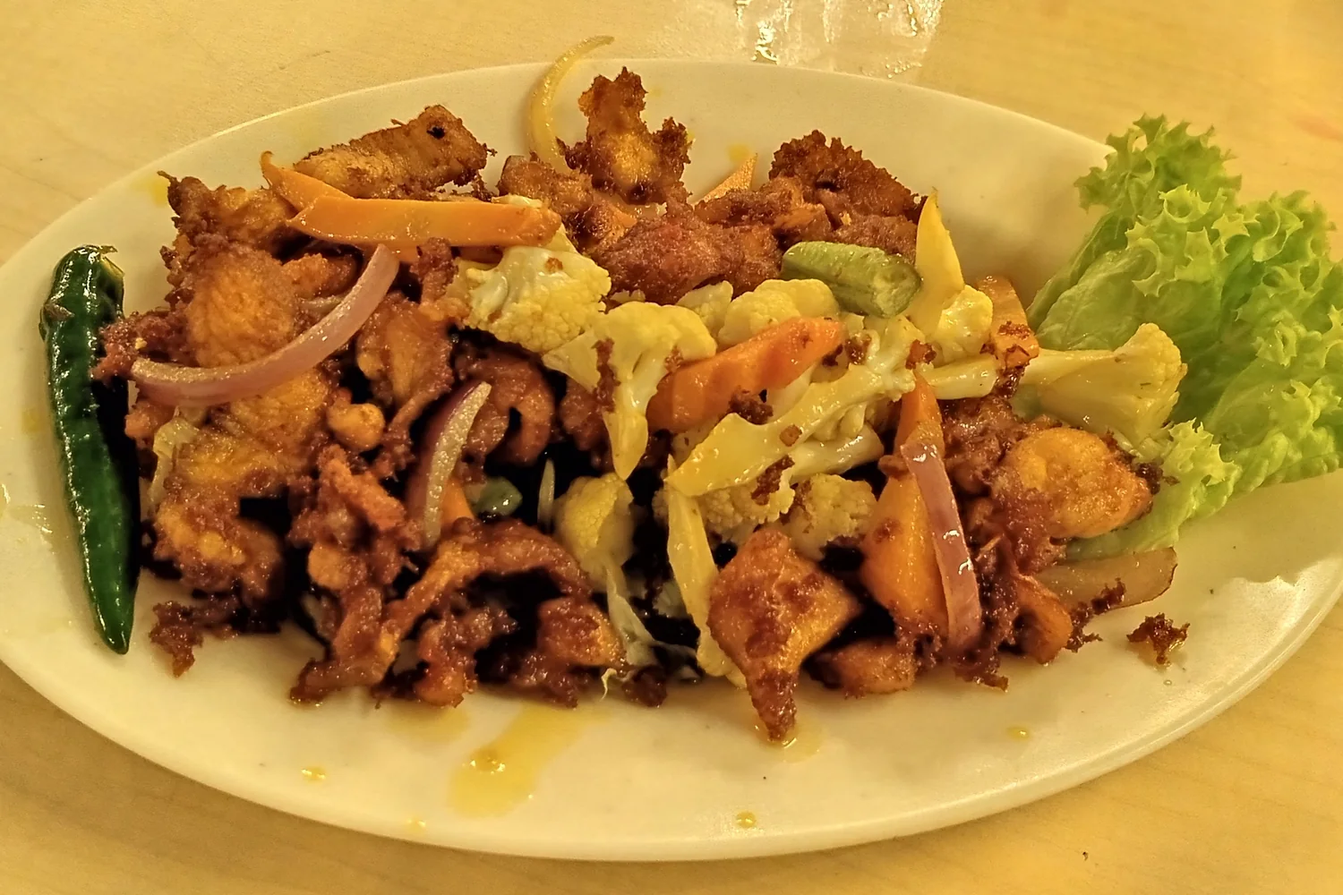
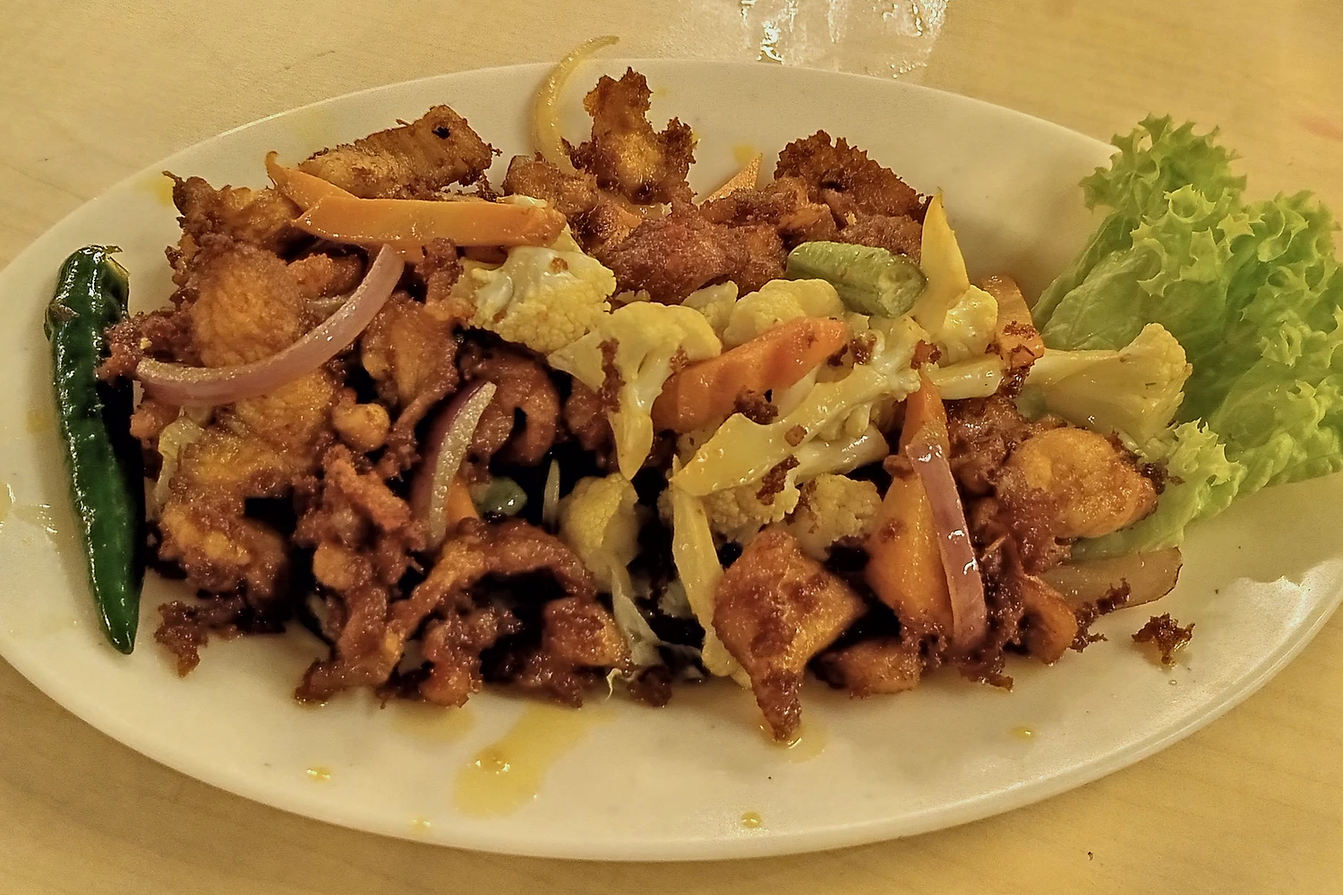
fix: align published recipes with hero evidence

diff --git a/data/localization/m9-public-recipes-batch-b.ts b/data/localization/m9-public-recipes-batch-b.ts
@@ -44,13 +44,13 @@ export const m9PublicRecipeTranslationsBatchB: Readonly<
   "malaysian-turmeric-chicken": en({
     name: "Home-Style Turmeric Chicken",
     description:
-      "A home-style chicken stir-fry with turmeric, ginger, and garlic, designed around a thin spice coating and complete cooking.",
+      "A lower-oil home stir-fry inspired by ayam goreng kunyit, with turmeric chicken, cauliflower, carrot, onion, and fresh chili.",
     steps: [
       {
         instruction:
-          "Cut the chicken thighs into evenly sized pieces and pat them dry. Toss with the turmeric and salt, then mince the ginger and garlic and slice the onion.",
+          "Cut the chicken thighs into even thin pieces and pat them dry. Toss with turmeric and salt. Cut the cauliflower into small florets, thinly slice the carrot, and prepare the ginger, garlic, onion, and fresh chili.",
         why:
-          "A dry surface and thin spice coating promote browning. Thick clumps of turmeric can scorch and taste bitter.",
+          "Thin, even chicken pieces finish while the vegetables stay crisp-tender. A light turmeric coating is less likely to scorch than thick clumps.",
       },
       {
         instruction:
@@ -60,18 +60,18 @@ export const m9PublicRecipeTranslationsBatchB: Readonly<
       },
       {
         instruction:
-          "When most of the chicken has changed color, add the onion and cook until its edges turn translucent. Add the ginger and garlic and toss briefly.",
+          "When most of the chicken has changed color, add the cauliflower, carrot, and onion. Stir-fry until the cauliflower has pale brown spots and the carrot still has bite.",
         why:
-          "The onion needs more time than the ginger and garlic. Adding the aromatics later keeps them from burning before the chicken is done.",
+          "Adding the sturdier vegetables first lets them finish with the chicken. If the crowded pan begins to steam, spread the ingredients out and raise the heat instead of covering it.",
       },
       {
         instruction:
-          "Continue stir-frying over medium heat until the center of the thickest chicken piece reaches 74°C / 165°F and the turmeric smells fragrant without any burnt odor. Remove from the heat immediately.",
+          "Add the ginger, garlic, and fresh chili and toss briefly. Reduce to medium and continue until the thickest chicken piece reaches 74°C / 165°F, then remove from the heat.",
         why:
-          "A probe temperature is more reliable than meat color. Reduce the heat if the spices darken too quickly.",
+          "Late aromatics avoid scorching. A probe temperature is more reliable than meat color, while the vegetables should remain cooked but still firm.",
       },
     ],
-    principles: ["Use a thin, even spice coating", "Brown the chicken before adding aromatics", "Check the thickest piece for doneness"],
+    principles: ["Use a thin, even spice coating", "Brown the chicken before the vegetables", "Check the thickest piece for doneness"],
   }),
   "singapore-chicken-rice-home": en({
     name: "One-Pot Home-Style Chicken Rice",
@@ -327,34 +327,34 @@ export const m9PublicRecipeTranslationsBatchB: Readonly<
   "mexican-black-bean-tacos": en({
     name: "Home-Style Black Bean Tacos",
     description:
-      "A modern home-style combination of black beans, tomatoes, and crisp vegetables in corn tortillas, without claiming a single traditional regional recipe.",
+      "A modern home-style combination of black beans, tomatoes, mushrooms, cabbage, and avocado in corn tortillas, without claiming a single traditional regional recipe.",
     steps: [
       {
         instruction:
-          "Drain the cooked black beans thoroughly. Dice the tomatoes and onion, finely shred the cabbage, chop the cilantro, and cut the lime into wedges.",
+          "Drain the cooked black beans thoroughly. Slice the mushrooms, dice the tomatoes and onion, finely shred the cabbage, slice the avocado, and cut the lime into wedges.",
         why:
-          "Clearly cooked beans keep the recipe within its stated time. Thorough draining prevents a wet filling from softening the tortillas too quickly.",
+          "Clearly cooked beans keep the recipe within its stated time. Separate prep lets the high-moisture mushrooms cook first and the cabbage cook last.",
       },
       {
         instruction:
-          "Add the beans, tomatoes, onion, and cumin to a pot. Cook over medium-low heat until the tomatoes collapse and no liquid pools at the bottom.",
+          "Heat the oil over medium and spread the mushrooms in the pan. Cook until their moisture has largely evaporated and the edges turn pale brown, then add the onion and cook until translucent.",
         why:
-          "A moist filling that does not run keeps the tortillas intact. Add only a small splash of hot water if the mixture dries before the tomatoes soften.",
+          "Removing mushroom moisture first concentrates their flavor and prevents a watery bean filling.",
       },
       {
         instruction:
-          "Lightly crush about one quarter of the beans with a spatula, add the salt, and stir until the filling is cohesive enough to mound.",
+          "Add the tomatoes, beans, and cumin and cook over medium-low until the tomatoes soften. Lightly crush about one quarter of the beans, then add the cabbage and salt and cook just until the shreds soften.",
         why:
-          "Crushing a small portion thickens the filling naturally while preserving most of the beans' texture.",
+          "Crushing a small portion binds the filling naturally. Adding cabbage at the end preserves its color and light crunch.",
       },
       {
         instruction:
-          "Warm the corn tortillas one at a time until flexible and lightly fragrant. Fill immediately with the beans, cabbage, and cilantro, then squeeze over lime just before eating.",
+          "Warm the corn tortillas one at a time until flexible and lightly fragrant. Fill immediately with the warm bean mixture, top with avocado, and squeeze over lime just before eating.",
         why:
-          "Warm tortillas bend without cracking. Adding the crisp vegetables and acid at the end preserves their texture and bright flavor.",
+          "Warm tortillas bend without cracking. Adding avocado and acid at serving time preserves their creamy texture and bright flavor.",
       },
     ],
-    principles: ["Start with clearly cooked black beans", "Reduce the filling until it does not run", "Assemble the warm and crisp components at serving time"],
+    principles: ["Cook off mushroom moisture first", "Start with clearly cooked black beans", "Add avocado and lime at serving time"],
   }),
   "huevos-rancheros-home": en({
     name: "Home-Style Huevos Rancheros",

diff --git a/data/recipes-china.ts b/data/recipes-china.ts
@@ -6,7 +6,7 @@ const pot = ["knife", "cutting-board", "saucepan"];
 const r = buildRecipe;
 
 export const chinaExpansionRecipes: Recipe[] = [
-  r({ slug:"cantonese-mushroom-steamed-chicken", name:"香菇蒸鸡", description:"粤式家庭蒸鸡，以姜葱和菌菇提鲜。", taxonomy:{countryId:"china",regionId:"guangdong",cuisineId:"cantonese",techniqueIds:["steam"],dishTypeId:"main-dish"}, servings:2, ingredients:[["chicken-thigh",320],["mushroom",140],["ginger",12],["scallion",15],["soy-sauce",10],["salt",0.8]], prep:15,cook:18,oil:0,salt:0.8,tools:[...pot,"steamer","heatproof-plate"],steps:[["鸡腿切块后与姜、生抽和盐拌匀，铺上蘑菇。","切块统一可让鸡肉同步熟透，短时腌制使表面调味均匀。"],["水沸上汽后放入，中火蒸至鸡肉中心熟透。","稳定蒸汽能持续传热，又避免肉块直接接触沸水。","medium"],["离火撒葱花，静置两分钟再食用。","短暂静置让内部温度均匀，葱花后放可保留清香。"]],principles:["蒸汽温和传热","统一尺寸控制熟度"],difficulty:"medium" }),
+  r({ slug:"cantonese-mushroom-steamed-chicken", name:"香菇蒸鸡", description:"粤式家庭蒸鸡，以姜葱和鲜香菇提鲜。", taxonomy:{countryId:"china",regionId:"guangdong",cuisineId:"cantonese",techniqueIds:["steam"],dishTypeId:"main-dish"}, servings:2, ingredients:[["chicken-thigh",320],["shiitake-mushroom",140],["ginger",12],["scallion",15],["soy-sauce",10],["salt",0.8]], prep:15,cook:18,oil:0,salt:0.8,tools:[...pot,"steamer","heatproof-plate"],steps:[["鸡腿切块后与姜、生抽和盐拌匀，铺上鲜香菇。","切块统一可让鸡肉同步熟透，短时腌制使表面调味均匀。"],["水沸上汽后放入，中火蒸至鸡肉中心熟透。","稳定蒸汽能持续传热，又避免肉块直接接触沸水。","medium"],["离火撒葱花，静置两分钟再食用。","短暂静置让内部温度均匀，葱花后放可保留清香。"]],principles:["蒸汽温和传热","统一尺寸控制熟度"],difficulty:"medium" }),
   r({ slug:"cantonese-ginger-scallion-fish", name:"姜葱蒸鱼", description:"以整洁的姜葱香气突出白肉鱼的细嫩。", taxonomy:{countryId:"china",regionId:"guangdong",cuisineId:"cantonese",techniqueIds:["steam"],dishTypeId:"main-dish"}, servings:2,ingredients:[["white-fish",320],["ginger",15],["scallion",20],["soy-sauce",8],["cooking-oil",4],["salt",0.8]],prep:10,cook:10,oil:4,salt:0.8,tools:["knife","cutting-board","steamer","heatproof-plate"],steps:[["鱼柳擦干，均匀撒盐并铺姜丝。","去除表面水分可减少腥水稀释调味。"],["水沸后上锅蒸至鱼肉刚能分片。","从上汽后计时更稳定，刚熟即停能减少蛋白质收缩。","medium"],["撒葱丝，淋生抽和温热的油。","热油帮助释放葱香，最后调味避免酱油过度浓缩。"]],principles:["控制终点避免鱼肉过熟","热油萃取葱香"] }),
   r({ slug:"cantonese-blanched-bok-choy",name:"白灼青菜",description:"快速焯烫小白菜，保留清脆和鲜绿。",taxonomy:{countryId:"china",regionId:"guangdong",cuisineId:"cantonese",techniqueIds:["blanch"],dishTypeId:"side-dish",dietaryTagIds:["vegan"],browseTagIds:["vegetable-rich"]},servings:2,ingredients:[["bok-choy",350],["soy-sauce",8],["cooking-oil",3],["salt",0.5]],prep:6,cook:4,oil:3,salt:0.5,tools:[...pot,"colander"],steps:[["青菜洗净并将粗梗与叶片分开。","粗梗需要更长加热，分开可控制成熟顺序。"],["沸水中先下菜梗，再下叶片快速焯熟。","高温短时能减少叶绿素长时间受热和组织软化。","high"],["充分沥水后淋生抽和油。","先沥干可避免水分稀释调味。"]],principles:["按部位调整加热时间","快速焯烫保留质地"] }),
   r({ slug:"home-mapo-tofu",name:"家常麻婆豆腐",description:"保留豆瓣酱、豆腐与肉末的核心结构，控制为家庭辣度。",heroImageId:"home-mapo-tofu-hero",publication:{status:"published"},taxonomy:{countryId:"china",regionId:"sichuan",cuisineId:"sichuan",techniqueIds:["braise"],dishTypeId:"main-dish"},servings:3,ingredients:[["tofu",420],["pork-tenderloin",120],["chili-bean-paste",18],["garlic",10],["scallion",15],["cooking-oil",8],["salt",0.6]],prep:12,cook:15,oil:8,salt:0.6,tools:pan,steps:[["豆腐切成约 2 厘米块，放入淡盐热水浸泡 5 分钟；同时把猪肉切成细末，蒜和葱分别切好。","温热盐水让豆腐表面略微收紧，后续轻推时不易碎；浸泡时间已计入准备时间。"],["豆腐沥干备用；锅烧热后加油，放入肉末摊开，中火炒至水汽明显减少、肉粒分散且不再呈粉色。","先把肉末自身水分炒掉，豆瓣酱下锅后才不会被水汽稀释，也能确认肉末已经熟透。","medium"],["转小火加入豆瓣酱和蒜，持续翻炒至酱色变红、能闻到香气；如果锅底发干，立即加少量水。","豆瓣酱和蒜容易焦苦，降低火力并观察锅底状态，比只按时间更可靠。","low"],["加入约 150 毫升水和豆腐，轻轻晃锅让豆腐铺开；保持小幅冒泡焖 5 至 6 分钟，中途只用锅铲轻推。","温和焖煮让味道进入豆腐，同时避免剧烈翻动破坏豆腐形状。","low"],["汤汁从水样收至能薄薄挂在豆腐表面时尝味，必要时用剩余盐调整，撒葱后关火。","豆瓣酱本身有咸度，最后按实际收汁程度补盐，能降低过咸风险。","low"]],principles:["先炒酱释放脂溶性香气","轻推保护豆腐结构"],difficulty:"medium" }),

diff --git a/data/recipes-global.ts b/data/recipes-global.ts
@@ -1,7 +1,7 @@
 import type{Recipe}from"@/types/recipe";import{buildRecipe as r}from"./recipe-factories";const pan=["knife","cutting-board","frying-pan"],pot=["knife","cutting-board","saucepan"];
 export const globalExpansionRecipes:Recipe[]=[
 r({slug:"mexican-chicken-fajitas",name:"墨西哥风味鸡肉彩椒",description:"鸡肉和彩椒以孜然、青柠高温快炒。",taxonomy:{countryId:"mexico",cuisineId:"mexican",techniqueIds:["sear","stir-fry"],dishTypeId:"main-dish",browseTagIds:["vegetable-rich"]},servings:3,ingredients:[["chicken-breast",320],["bell-pepper",300],["onion",160],["lime",1,"piece"],["cumin",3],["paprika",3],["cooking-oil",7],["salt",1.3]],prep:15,cook:10,oil:7,salt:1.3,tools:pan,steps:[["鸡肉切条擦干，蔬菜切同宽条。","统一尺寸利于同步熟化。"],["鸡肉高温煎至上色后盛出，炒彩椒洋葱。","分批保持锅温。","high"],["鸡肉回锅加香料，离火挤青柠。","香料短时受热，酸味后加。"]],principles:["分批保持锅温","酸味后加"]}),
-r({slug:"mexican-black-bean-tacos",name:"墨西哥黑豆玉米饼家庭版",description:"黑豆、番茄与脆蔬菜组成的家庭玉米饼。",taxonomy:{countryId:"mexico",cuisineId:"mexican",techniqueIds:["simmer"],dishTypeId:"staple",dietaryTagIds:["vegan"],browseTagIds:["vegetable-rich"]},servings:3,ingredients:[["cooked-black-bean",180],["corn-tortilla",6,"piece"],["tomato",240],["cabbage",180],["onion",100],["cilantro",20],["lime",1,"piece"],["cumin",2],["salt",1.2]],prep:15,cook:20,oil:0,salt:1.2,tools:pot,steps:[["熟黑豆沥干，番茄和洋葱切小丁。","熟豆无需额外预煮，沥干可避免馅料水分过多。"],["加入番茄、洋葱和孜然小火收浓。","收浓避免馅料浸湿饼皮。","low"],["玉米饼加热后装豆馅、圆白菜、香菜和青柠。","最后组合保留脆度。"]],principles:["熟豆直接入锅","控制馅料水分"]}),
+r({slug:"mexican-black-bean-tacos",name:"墨西哥黑豆玉米饼家庭版",description:"黑豆、番茄、蘑菇、圆白菜和牛油果组成的现代家庭玉米饼。",taxonomy:{countryId:"mexico",cuisineId:"mexican",techniqueIds:["stir-fry"],dishTypeId:"staple",dietaryTagIds:["vegan"],browseTagIds:["vegetable-rich"]},servings:3,ingredients:[["cooked-black-bean",180],["corn-tortilla",6,"piece"],["tomato",180],["mushroom",160],["cabbage",160],["avocado",150],["onion",80],["lime",1,"piece"],["cumin",2],["cooking-oil",5],["salt",1.2]],prep:15,cook:18,oil:5,salt:1.2,tools:pan,steps:[["熟黑豆沥干，番茄、蘑菇和洋葱切好。","熟豆无需额外预煮，沥干可避免馅料水分过多。"],["炒香蘑菇和洋葱，加入番茄、黑豆和孜然收浓。","先排出菌菇水分可避免馅料浸湿饼皮。","medium"],["加入圆白菜炒至刚变软，玉米饼加热后装馅并配牛油果和青柠。","圆白菜和牛油果最后组合可保留颜色与质地。","medium"]],principles:["熟豆直接入锅","菌菇先排水","食用前完成组合"]}),
 r({slug:"mexican-tomato-bean-rice",name:"墨西哥风味番茄豆饭",description:"黑豆、番茄与米同锅熟成。",taxonomy:{countryId:"mexico",cuisineId:"mexican",techniqueIds:["rice-cook"],dishTypeId:"staple",dietaryTagIds:["vegan"],browseTagIds:["one-pot"]},servings:4,ingredients:[["rice",220],["cooked-black-bean",120],["tomato",300],["corn",160],["onion",120],["cumin",2],["paprika",2],["cooking-oil",5],["salt",1.6]],prep:15,cook:38,oil:5,salt:1.6,tools:pot,steps:[["熟黑豆沥干，大米淘洗。","使用熟豆可与生米在同一计时流程内完成。"],["炒香洋葱番茄和香料，加入米、豆和水。","先浓缩底味并控制总液量。"],["加盖小火煮熟后焖八分钟。","静置让米粒水分均匀。","low"]],principles:["熟豆与生米协调熟化","静置完成吸水"]}),
 r({slug:"huevos-rancheros-home",name:"牧场鸡蛋家庭版",description:"番茄黑豆、煎蛋与玉米饼组成的墨西哥风味早餐。",taxonomy:{countryId:"mexico",cuisineId:"mexican",techniqueIds:["pan-fry","simmer"],dishTypeId:"staple",mealOccasionIds:["breakfast"]},servings:2,ingredients:[["egg",2,"piece"],["corn-tortilla",4,"piece"],["cooked-black-bean",100],["tomato",260],["onion",80],["fresh-chili",8],["cooking-oil",5],["salt",1]],prep:12,cook:18,oil:5,salt:1,tools:pan,steps:[["熟黑豆沥干，番茄洋葱切碎。","熟豆直接入锅保证口感。"],["番茄、洋葱、辣椒和黑豆小火煮成浓汁。","减少水分避免玉米饼湿软。"],["煎蛋并加热玉米饼，食用前组合。","最后组合保留各部分质地。"]],principles:["控制酱汁水分","分组件熟化"],difficulty:"medium"}),
 r({slug:"american-sheet-pan-chicken",name:"美式烤盘鸡肉蔬菜",description:"鸡肉与根茎蔬菜单层烘烤的家庭晚餐。",taxonomy:{countryId:"united-states",cuisineId:"american",techniqueIds:["roast"],dishTypeId:"main-dish",browseTagIds:["vegetable-rich"]},servings:4,ingredients:[["chicken-thigh",480],["potato",400],["broccoli",300],["carrot",180],["garlic",10],["paprika",3],["cooking-oil",10],["salt",2]],prep:15,cook:32,oil:10,salt:2,tools:["knife","cutting-board","oven","baking-tray"],steps:[["烤箱预热，根茎切小、花菜切大。","按硬度调整尺寸可同步成熟。"],["食材拌油盐香料后单层铺开。","留空隙让水汽逸出。"],["中途翻面，鸡肉熟透后静置 3 分钟。","翻面均匀上色，静置保汁。"]],principles:["尺寸协调熟度","单层促进干热褐变"]}),

diff --git a/data/m9-recipes-batch-b.ts b/data/m9-recipes-batch-b.ts
@@ -29,14 +29,14 @@ export const m9BatchBOverrides: Readonly<Record<string, M9RecipeEditorialOverrid
     principles: ["茄子先煎定型", "先成酱再回锅", "轻柔翻动保持形状"],
   },
   "malaysian-turmeric-chicken": {
-    description: "姜黄、姜、蒜和鸡肉快炒的家庭版本，强调香料薄裹与完整熟化。",
+    description: "受 ayam goreng kunyit 启发，以姜黄鸡肉、花椰菜、胡萝卜、洋葱和鲜辣椒组成的家庭少油快炒。",
     steps: steps([
-      ["鸡腿切成大小接近的块并擦干，与姜黄和盐拌匀；姜、蒜切末，洋葱切片。", "干燥表面和薄层香料有利于上色；姜黄不宜厚厚结块，否则容易焦苦。"],
+      ["鸡腿切成大小接近的薄块并擦干，与姜黄和盐拌匀；花椰菜切小朵，胡萝卜切薄片，姜蒜切末，洋葱和鲜辣椒切片。", "鸡肉薄而均匀才能在蔬菜保持脆嫩时熟透；薄层姜黄比结块的香料更不易焦苦。"],
       ["锅充分预热后放油，鸡肉分散下锅，先保持接触至底面上色再翻炒。", "持续接触热锅能建立褐变；若鸡肉大量出水，应先让水汽收干而不是继续加油。", "high"],
-      ["鸡肉大部分变色后加入洋葱，炒至边缘透明，再加入姜蒜快速翻匀。", "洋葱需要比姜蒜更长时间；姜蒜后放可避免在鸡肉熟透前焦黑。", "medium"],
-      ["转中火继续翻炒至最厚肉块中心达到 74°C、姜黄香气清晰而无焦味，立即离火。", "探针温度比肉色更可靠；香料颜色变深过快时应降低火力。", "medium"],
+      ["鸡肉大部分变色后加入花椰菜、胡萝卜和洋葱，翻炒至花椰菜边缘出现浅色焦点、胡萝卜仍有脆感。", "耐热蔬菜先入锅能与鸡肉同步完成；食材拥挤出水时应提高火力并摊开，而不是久焖。", "high"],
+      ["加入姜蒜和鲜辣椒快速翻匀，转中火炒至最厚鸡肉中心达到 74°C，立即离火。", "香味料后放可避免焦黑；探针温度比肉色更可靠，蔬菜此时应熟而仍有咬感。", "medium"],
     ]),
-    principles: ["香料只做薄层附着", "先上色再加入香味料", "确认最厚肉块熟透"],
+    principles: ["香料只做薄层附着", "鸡肉先上色再炒蔬菜", "确认最厚肉块熟透"],
   },
   "singapore-chicken-rice-home": {
     description: "鸡腿与姜葱米饭同锅熟成的简化家庭版本，不替代传统分锅鸡饭做法。",
@@ -117,14 +117,14 @@ export const m9BatchBOverrides: Readonly<Record<string, M9RecipeEditorialOverrid
     principles: ["肉块尺寸一致", "单层上色后降低火力", "柠檬离火后加入"],
   },
   "mexican-black-bean-tacos": {
-    description: "黑豆、番茄和脆蔬菜组成的现代家庭玉米饼，不声称为单一传统地方配方。",
+    description: "黑豆、番茄、蘑菇、圆白菜和牛油果组成的现代家庭玉米饼，不声称为单一传统地方配方。",
     steps: steps([
-      ["熟黑豆彻底沥干，番茄和洋葱切小丁，圆白菜切细丝，香菜切碎，青柠切瓣。", "明确使用熟豆才能符合总时长；沥干能避免馅料水分过多浸软玉米饼。"],
-      ["锅中加入黑豆、番茄、洋葱和孜然，以中小火煮至番茄塌软、锅底不再积水。", "把馅料收至湿润但不流汁可保持饼皮完整；发干时只补少量热水。", "low"],
-      ["用锅铲轻压约四分之一黑豆，加入盐并翻匀，让馅料形成能堆叠的黏合度。", "压碎少量豆粒能自然增稠，同时保留大部分完整口感。", "low"],
-      ["玉米饼逐张加热至柔软并出现淡香，立即装入豆馅、圆白菜和香菜，食用前挤青柠。", "温热饼皮更柔韧不易裂；脆蔬菜和酸味最后加入可保留质地与明亮风味。", "medium"],
+      ["熟黑豆彻底沥干；蘑菇切片，番茄和洋葱切小丁，圆白菜切细丝，牛油果切片，青柠切瓣。", "明确使用熟豆才能符合总时长；提前分开切配可让高含水蘑菇先入锅、圆白菜最后入锅。"],
+      ["锅中放油，以中火把蘑菇摊开炒至水汽明显减少、边缘浅褐，再加入洋葱炒至透明。", "先排出菌菇水分能集中风味，也可避免后续豆馅变得过湿。", "medium"],
+      ["加入番茄、黑豆和孜然，中小火炒至番茄塌软；轻压约四分之一黑豆，再加入圆白菜和盐，炒至菜丝刚变软。", "压碎少量豆粒能自然黏合馅料；圆白菜后放可保留颜色和轻脆口感。", "low"],
+      ["玉米饼逐张加热至柔软并出现淡香，立即装入温热豆馅，铺上牛油果，食用前挤青柠。", "温热饼皮更柔韧不易裂；牛油果和酸味最后加入可保留柔滑质地与明亮风味。", "medium"],
     ]),
-    principles: ["使用明确已熟的黑豆", "馅料收至不流汁", "食用前完成冷热组合"],
+    principles: ["菌菇先排水", "使用明确已熟的黑豆", "食用前加入牛油果和青柠"],
   },
   "huevos-rancheros-home": {
     description: "番茄黑豆酱、煎蛋和玉米饼组成的家庭早餐版本。",

diff --git a/data/m9-recipe-images.ts b/data/m9-recipe-images.ts
@@ -23,18 +23,18 @@ export const m9RecipeImages: readonly RecipeImage[] = [
   {
     id: "cantonese-mushroom-steamed-chicken-hero",
     src: "/images/recipes/cantonese-mushroom-steamed-chicken/hero.webp",
-    alt: "白色深盘中的鸡肉、菌菇与棕色汤汁，为同类食材组合的视觉示意",
+    alt: "外卖碗中的冬菇蒸滑鸡配米饭，为香菇蒸鸡的上桌示意",
     role: "hero",
     delivery: "local",
     width: 1500,
     height: 1000,
     aspectRatio: "3:2",
     source: "open-license",
-    sourceUrl: "https://www.flickr.com/photos/avlxyz/2300203732/",
-    author: "avlxyz",
+    sourceUrl: commons("HK Kwun Tong Lunch Box dim sum mushroom chicken rice Nov 2018 01.jpg"),
+    author: "Manfilliomia",
     license: "cc-by-sa",
-    licenseUrl: "https://creativecommons.org/licenses/by-sa/2.0/",
-    attribution: "avlxyz / Flickr，裁切处理，CC BY-SA 2.0",
+    licenseUrl: "https://creativecommons.org/licenses/by-sa/4.0/",
+    attribution: "Manfilliomia / Wikimedia Commons，裁切与色彩处理，CC BY-SA 4.0",
   },
   {
     id: "hunan-chili-pork-hero",
@@ -215,7 +215,7 @@ export const m9RecipeImages: readonly RecipeImage[] = [
   {
     id: "malaysian-turmeric-chicken-hero",
     src: "/images/recipes/malaysian-turmeric-chicken/hero.webp",
-    alt: "白盘中的姜黄鸡肉和蔬菜，表面呈鲜明金黄色",
+    alt: "白盘中的马来西亚风味姜黄鸡，搭配花椰菜、胡萝卜、洋葱和鲜辣椒",
     role: "hero",
     delivery: "local",
     width: 1500,
@@ -226,7 +226,7 @@ export const m9RecipeImages: readonly RecipeImage[] = [
     author: "Wiki Farazi",
     license: "cc0",
     licenseUrl: "https://creativecommons.org/publicdomain/zero/1.0/",
-    attribution: "Wiki Farazi / Wikimedia Commons，CC0",
+    attribution: "Wiki Farazi / Wikimedia Commons，裁切与色彩处理，CC0",
   },
   {
     id: "singapore-chicken-rice-home-hero",
@@ -359,18 +359,18 @@ export const m9RecipeImages: readonly RecipeImage[] = [
   {
     id: "mexican-black-bean-tacos-hero",
     src: "/images/recipes/mexican-black-bean-tacos/hero.webp",
-    alt: "盘中的黑豆玉米饼，铺有生菜、紫甘蓝、豌豆、种子和酱料，为同类料理的视觉示意",
+    alt: "绿盘中的黑豆蔬菜玉米饼，搭配番茄、蘑菇、圆白菜和牛油果",
     role: "hero",
     delivery: "local",
     width: 1500,
     height: 1000,
     aspectRatio: "3:2",
     source: "open-license",
-    sourceUrl: commons("Black bean corn tacos at Down The Rabbit Hole 2018.jpg"),
-    author: "FakirNL",
-    license: "cc-by-sa",
-    licenseUrl: "https://creativecommons.org/licenses/by-sa/4.0/",
-    attribution: "FakirNL / Wikimedia Commons，裁切处理，CC BY-SA 4.0",
+    sourceUrl: commons("Vegetables and Black Bean Tacos (7212559656).jpg"),
+    author: "Jennifer",
+    license: "cc-by",
+    licenseUrl: "https://creativecommons.org/licenses/by/2.0/",
+    attribution: "Jennifer / Wikimedia Commons，尺寸与色彩处理，CC BY 2.0",
   },
   {
     id: "huevos-rancheros-home-hero",

diff --git a/data/localization/m9-public-recipes-batch-a.ts b/data/localization/m9-public-recipes-batch-a.ts
@@ -21,11 +21,11 @@ export const m9PublicRecipeTranslationsBatchA: Readonly<
     principles: ["Maintain steady steam", "Judge doneness at the thickest point", "Release the aromatics at the end"],
   }),
   "cantonese-mushroom-steamed-chicken": en({
-    name: "Steamed Chicken with Mushrooms",
-    description: "A Cantonese home-style plate of chicken, mushrooms, ginger, and scallion cooked over steady steam.",
+    name: "Steamed Chicken with Shiitake",
+    description: "A Cantonese home-style plate of chicken, fresh shiitake, ginger, and scallion cooked over steady steam.",
     steps: [
-      { instruction: "Cut the chicken thighs into similar pieces and slice the mushrooms thickly. Toss the chicken with ginger, soy sauce, and salt, then rest for 10 minutes.", why: "Even pieces cook together. The short rest seasons the surface and is already included in the preparation time." },
-      { instruction: "Arrange the chicken in one layer on a heatproof plate, placing the mushrooms between the pieces instead of building a tall pile.", why: "A single layer exposes the food evenly to steam. A thick pile leaves the pieces in the center heating too slowly." },
+      { instruction: "Cut the chicken thighs into similar pieces and slice the fresh shiitake thickly. Toss the chicken with ginger, soy sauce, and salt, then rest for 10 minutes.", why: "Even pieces cook together. The short rest seasons the surface and is already included in the preparation time." },
+      { instruction: "Arrange the chicken in one layer on a heatproof plate, placing the shiitake between the pieces instead of building a tall pile.", why: "A single layer exposes the food evenly to steam. A thick pile leaves the pieces in the center heating too slowly." },
       { instruction: "Set the plate over a fully steaming pot and cook over medium heat until the center of the thickest chicken piece reaches 74°C / 165°F.", why: "A probe temperature is more reliable than meat color or clear juices. Stable steam avoids temperature swings." },
       { instruction: "Turn off the heat and rest for 2 minutes. Add the scallion and turn the chicken gently through the juices on the plate.", why: "The short rest evens out the internal temperature. Adding scallion last preserves its fresh aroma." },
     ],

diff --git a/data/ingredients.ts b/data/ingredients.ts
@@ -94,6 +94,11 @@ const estimatedIngredients: Omit<Ingredient, "dataQuality" | "nutritionProvenanc
     defaultUnit: "g", estimatedPricePer100g: 1.8, tags: ["vegan"],
   },
   {
+    id: "shiitake-mushroom", name: "鲜香菇", aliases: ["香菇", "冬菇"], category: "vegetable",
+    nutritionPer100g: nutrition(34, 2.2, 0.5, 0.1, 6.8, 2.4, 2.5, 9),
+    defaultUnit: "g", estimatedPricePer100g: 2.4, tags: ["vegan"],
+  },
+  {
     id: "potato", name: "土豆", aliases: ["马铃薯"], category: "vegetable",
     nutritionPer100g: nutrition(77, 2, 0.1, 0, 17.5, 0.8, 2.1, 6),
     defaultUnit: "g", approximateUnitWeight: { piece: 180 }, estimatedPricePer100g: 0.5,
@@ -110,6 +115,17 @@ const estimatedIngredients: Omit<Ingredient, "dataQuality" | "nutritionProvenanc
     nutritionPer100g: nutrition(41, 0.9, 0.2, 0, 9.6, 4.7, 2.8, 69),
     defaultUnit: "g", approximateUnitWeight: { piece: 120 }, estimatedPricePer100g: 0.6,
     tags: ["vegan"],
+  },
+  {
+    id: "cauliflower", name: "白花椰菜", aliases: ["菜花"], category: "vegetable",
+    nutritionPer100g: nutrition(25, 1.9, 0.3, 0.1, 5, 1.9, 2, 30),
+    defaultUnit: "g", estimatedPricePer100g: 1.1, tags: ["vegan", "high-fiber"],
+  },
+  {
+    id: "avocado", name: "牛油果", aliases: ["鳄梨"], category: "vegetable",
+    nutritionPer100g: nutrition(160, 2, 14.7, 2.1, 8.5, 0.7, 6.7, 7),
+    defaultUnit: "g", approximateUnitWeight: { piece: 150 }, estimatedPricePer100g: 4,
+    tags: ["vegan", "fruit"],
   },
   {
     id: "cucumber", name: "黄瓜", aliases: ["青瓜"], category: "vegetable",

diff --git a/data/localization/ingredients.ts b/data/localization/ingredients.ts
@@ -2,7 +2,8 @@ import type { SupportedLocale } from "@/types/localization";
 
 const englishIngredientLabels: Readonly<Record<string, string>> = Object.freeze({
   apple: "apple", "bell-pepper": "bell pepper", "black-tea-leaf": "black tea leaves",
-  "brewed-espresso": "brewed espresso", butter: "butter", cardamom: "cardamom", carrot: "carrot",
+  avocado: "avocado", "brewed-espresso": "brewed espresso", butter: "butter", cardamom: "cardamom", carrot: "carrot",
+  cauliflower: "cauliflower",
   cilantro: "cilantro", cinnamon: "cinnamon", clove: "clove", "cocoa-powder": "cocoa powder",
   "coconut-milk": "coconut milk", "cooked-chickpea": "cooked chickpeas", cucumber: "cucumber",
   cumin: "cumin", "dried-hibiscus": "dried hibiscus", "drinking-water": "water", egg: "eggs",
@@ -15,6 +16,7 @@ const englishIngredientLabels: Readonly<Record<string, string>> = Object.freeze(
   "lapsang-souchong-tea-leaf": "Lapsang Souchong tea", lemon: "lemon", lemongrass: "lemongrass",
   lime: "lime", "longjing-tea-leaf": "Longjing tea leaves", "makrut-lime-leaf": "makrut lime leaves",
   mango: "mango", mascarpone: "mascarpone", milk: "milk", miso: "miso", mushroom: "mushrooms",
+  "shiitake-mushroom": "shiitake mushrooms",
   oats: "oats", onion: "onion", oregano: "oregano", pasta: "pasta", "pork-belly": "pork belly",
   "pork-tenderloin": "lean pork", rice: "rice", "rice-noodles": "rice noodles", "roasted-peanut": "unsalted roasted peanuts", salt: "salt",
   scallion: "scallions", "sesame-paste": "sesame paste", "shaoxing-wine": "Shaoxing wine",

diff --git a/data/research/m9-recipe-research.ts b/data/research/m9-recipe-research.ts
@@ -464,7 +464,7 @@ const recipeResearchPlans = [
     sourceAUses: ["identity", "culture"],
     sourceB: "woks-of-life-steamed-chicken-mushrooms",
     sourceBUses: ["preparation", "safety"],
-    editorialDecision: "Publish as a Cantonese-style household preparation; do not imply dried lily flowers are present.",
+    editorialDecision: "Publish as a Cantonese-style household preparation using fresh shiitake; do not imply dried lily flowers are present.",
   },
   {
     slug: "hunan-chili-pork",
@@ -552,7 +552,7 @@ const recipeResearchPlans = [
     sourceAUses: ["identity", "culture"],
     sourceB: "rasa-malaysia-turmeric-chicken",
     sourceBUses: ["identity", "preparation"],
-    editorialDecision: "Clearly label the low-oil stir-fry as a household adaptation, not traditional ayam goreng kunyit frying.",
+    editorialDecision: "Clearly label the vegetable-rich, lower-oil stir-fry as a household adaptation inspired by ayam goreng kunyit, not an official or canonical formula.",
   },
   {
     slug: "singapore-chicken-rice-home",
@@ -632,7 +632,7 @@ const recipeResearchPlans = [
     sourceAUses: ["identity", "culture"],
     sourceB: "mexico-health-bean-recipe-book",
     sourceBUses: ["preparation", "safety"],
-    editorialDecision: "Publish as a modern household black-bean taco combination; make no canonical-origin claim.",
+    editorialDecision: "Publish as a modern household black-bean, mushroom, cabbage, and avocado taco combination; make no canonical-origin claim.",
   },
   {
     slug: "huevos-rancheros-home",

diff --git a/lib/__tests__/engines.test.ts b/lib/__tests__/engines.test.ts
@@ -157,7 +157,7 @@ describe("ingredient repository", () => {
   it("provides lookup and read-only listing without domain rules", () => {
     expect(localIngredientRepository.getById("egg")?.name).toBe("鸡蛋");
     expect(localIngredientRepository.getById("missing")).toBeUndefined();
-    expect(localIngredientRepository.list()).toHaveLength(103);
+    expect(localIngredientRepository.list()).toHaveLength(106);
   });
 });
 

diff --git a/docs/M9_SOURCE_RESEARCH.md b/docs/M9_SOURCE_RESEARCH.md
@@ -36,7 +36,7 @@
 | 11 | `thai-green-papaya-salad` | Thailand Foundation, [“Som Tam (Thai Papaya Salad)”](https://thailandfoundation.or.th/som-tam-2/) | Andy Ricker, *Pok Pok* | 当前家庭版使用鱼露、番茄与花生；不声称复现单一地方版本。书籍需补页码。 |
 | 12 | `filipino-chicken-adobo-home` | Philippine Cultural Education Program, [“adóbo”](https://philippineculturaleducation.com.ph/adobo/) | Vanjo Merano / Panlasang Pinoy, [“Filipino Chicken Adobo”](https://panlasangpinoy.com/filipino-chicken-adobo-recipe/) | A 用于文化与术语，B 用于家庭方法对照；不把一个版本写成唯一 Filipino adobo。 |
 | 13 | `indonesian-chili-eggplant` | Indonesia.travel, [“10 Sambal Khas Indonesia dari Berbagai Daerah Nusantara”](https://www.indonesia.travel/id/id/travel-ideas/gastronomy/10-sambal-khas-nusantara-yang-wajib-dicoba) | Sri Owen, *The Food of Indonesia* | 应核对并命名为 `Terong Balado 家庭版` 或“印尼风味辣茄子”。Lombok 的 [beberuk terong](https://www.indonesia.travel/gb/en/travel-ideas/gastronomy/beberuk-terong-a-vibrant-eggplant-salad-from-lombok) 不是同一道菜，不可混用。 |
-| 14 | `malaysian-turmeric-chicken` | Tourism Malaysia, [“Malaysian Food: 52 Top Picks You Shouldn't Miss”](https://www.malaysia.travel/explore/malaysian-food-52-top-picks-you-shouldn-t-miss) | Mandy Yin, *Sambal Shiok: The Malaysian Cookbook* | 当前少油 stir-fry 是家庭改编，不得写成传统油炸 `ayam goreng kunyit`。书籍需补页码和对应菜名。 |
+| 14 | `malaysian-turmeric-chicken` | Tourism Malaysia, [“Malaysian Food: 52 Top Picks You Shouldn't Miss”](https://www.malaysia.travel/explore/malaysian-food-52-top-picks-you-shouldn-t-miss) | Rasa Malaysia, turmeric chicken preparation reference | 当前鸡肉、花椰菜、胡萝卜、洋葱和鲜辣椒快炒是受 `ayam goreng kunyit` 启发的家庭少油改编，不得写成唯一传统版本。 |
 | 15 | `singapore-chicken-rice-home` | Singapore National Heritage Board, [“Chicken Rice”](https://www.roots.gov.sg/ich-landing/ich/chicken-rice) | MICHELIN Guide, [“The Different Types of Chicken Rice Around Asia”](https://guide.michelin.com/en/article/features/same-same-but-different-the-different-types-of-chicken-rice-around-asia) | 当前 rice-cooker 同锅法明显不同于传统汆鸡与鸡汤饭，首屏必须写明“同锅家庭改编”。UNESCO [Singapore hawker culture](https://ich.unesco.org/en/RL/hawker-culture-in-singapore-community-dining-and-culinary-practices-in-a-multicultural-urban-context-01568) 只作环境旁证。 |
 | 16 | `indian-masoor-dal` | Swasthi Shreekanth, [“Masoor Dal Recipe”](https://www.indianhealthyrecipes.com/masoor-dal-recipe/) | Pushpesh Pant, *India: The Cookbook* | Cookbook 需补准确 recipe/page locator；用于香料顺序、稠度与地区变体交叉核对。 |
 | 17 | `indian-chana-masala-home` | Swasthi Shreekanth, [“Chana Masala”](https://www.indianhealthyrecipes.com/chana-masala/) | Pushpesh Pant, *India: The Cookbook* | 熟制鹰嘴豆起步是现代家庭工作流，ingredient state 和总时间必须保持明确。 |
@@ -45,7 +45,7 @@
 | 20 | `spanish-chickpea-spinach` | ICEX / Foods & Wines from Spain, [“The Unsung World of Spanish Vegetarian Tapas”](https://www.foodswinesfromspain.com/en/food/articles/2022/july/the-unsung-world-of-spanish-vegetarian-tapas) | Claudia Roden, *The Food of Spain* | 需定位 `espinacas con garbanzos` 页码。Spain.info 的 [Madrid-style chickpea and vegetable stew](https://www.spain.info/en/recipe/chickpea-spinach-soup-madrilena/) 不是同一道菜，不应接受为 recipe evidence。 |
 | 21 | `french-lentil-soup` | INAO, [“Lentille verte du Puy”](https://www.inao.gouv.fr/node/367) | Anne Willan, *The Country Cooking of France* | A 只支持原料/产区。当前若不用 Puy AOP lentils，必须保持“French-style”，不得写成 Puy lentil soup。书籍需补 recipe/page locator。 |
 | 22 | `greek-lemon-oregano-chicken` | Diane Kochilas, [“Greek Lemon Chicken Skewers with Oregano & Olive Oil”](https://www.dianekochilas.com/greek-lemon-chicken-skewers/) | Akis Petretzikis, [“Greek Lemon Roast Chicken and Potatoes”](https://akispetretzikis.com/en/recipe/2555/kotopoylo-lemonato-me-patates) | 两源支持 lemon/oregano flavor family，但当前 grill-pan thigh 仍是独立家庭改编，不得冒充任一原食谱。 |
-| 23 | `mexican-black-bean-tacos` | Mexico Secretaría de Cultura SIC, [“Los tacos”](https://sic.cultura.gob.mx/ficha.php?table=gastronomia&table_id=94) | Vida Saludable, [*Recetario Frijol Vive Saludable*](https://www.vidasaludable.gob.mx/storage/recursos/recetarios/Recetario-Frijol_Vive-Saludable.pdf) | 当前 cabbage/cumin/black-bean taco 是现代组合。UNESCO [Traditional Mexican cuisine](https://ich.unesco.org/en/RL/traditional-mexican-cuisine-ancestral-ongoing-community-culture-the-michoacan-paradigm-00400) 只支持 maize/beans/food-system 背景。 |
+| 23 | `mexican-black-bean-tacos` | Mexico Secretaría de Cultura SIC, [“Los tacos”](https://sic.cultura.gob.mx/ficha.php?table=gastronomia&table_id=94) | Vida Saludable, [*Recetario Frijol Vive Saludable*](https://www.vidasaludable.gob.mx/storage/recursos/recetarios/Recetario-Frijol_Vive-Saludable.pdf) | 当前黑豆、蘑菇、圆白菜、番茄和牛油果 taco 是现代组合。UNESCO [Traditional Mexican cuisine](https://ich.unesco.org/en/RL/traditional-mexican-cuisine-ancestral-ongoing-community-culture-the-michoacan-paradigm-00400) 只支持 maize/beans/food-system 背景。 |
 | 24 | `huevos-rancheros-home` | Larousse Cocina, [“Huevos rancheros”](https://laroussecocina.mx/receta/huevos-rancheros/)；同站另一个[编辑版本](https://laroussecocina.mx/receta/huevos-rancheros-2/) | Mely Martínez, *The Mexican Home Kitchen* | Cookbook 需补页码。Gob.mx 的章鱼版本不是当前菜，不能用于验证普通 huevos rancheros。 |
 
 ## Image Candidates
@@ -55,7 +55,7 @@
 | # | Recipe | Original file page and metadata | Original image URL | Size | Composition and risk |
 | --- | --- | --- | --- | --- | --- |
 | 1 | `cantonese-ginger-scallion-fish` | [Cantonese style steamed fish and special side dishes in lunch.jpg](https://commons.wikimedia.org/wiki/File:Cantonese_style_steamed_fish_and_special_side_dishes_in_lunch.jpg) — Apeach316 — [CC BY-SA 2.0](https://creativecommons.org/licenses/by-sa/2.0) | [original](https://upload.wikimedia.org/wikipedia/commons/0/08/Cantonese_style_steamed_fish_and_special_side_dishes_in_lunch.jpg) | 4000×3000 | 4:3 可用，但标题说明同时有 side dishes；必须确认鱼能否独立占主画面，否则拒绝。 |
-| 2 | `cantonese-mushroom-steamed-chicken` | [A Vegetable and mushroom and Yellow Chicken.jpg](https://commons.wikimedia.org/wiki/File:A_Vegetable_and_mushroom_and_Yellow_Chicken.jpg) — Peachyeung316 — [CC BY-SA 4.0](https://creativecommons.org/licenses/by-sa/4.0) | [original](https://upload.wikimedia.org/wikipedia/commons/7/75/A_Vegetable_and_mushroom_and_Yellow_Chicken.jpg) | 6000×4000 | 横向分辨率充足；文件名语义含糊，必须确认是蒸鸡加菌菇且没有包装/桌面干扰，否则拒绝。 |
+| 2 | `cantonese-mushroom-steamed-chicken` | [HK Kwun Tong Lunch Box dim sum mushroom chicken rice Nov 2018 01.jpg](https://commons.wikimedia.org/wiki/File:HK_Kwun_Tong_Lunch_Box_dim_sum_mushroom_chicken_rice_Nov_2018_01.jpg) - Manfilliomia - [CC BY-SA 4.0](https://creativecommons.org/licenses/by-sa/4.0/) | [original](https://upload.wikimedia.org/wikipedia/commons/9/9c/HK_Kwun_Tong_Lunch_Box_dim_sum_mushroom_chicken_rice_Nov_2018_01.jpg) | 3264×2448 | 文件说明明确为香港冬菇滑鸡饭；裁切移除旁边点心，仅作为蒸鸡配饭的上桌示意。 |
 | 3 | `hunan-chili-pork` | [Lajiao Chaorou at Xiangzhongyuan Hunan Cuisine, Beijing](https://commons.wikimedia.org/wiki/File:Lajiao_Chaorou_at_Xiangzhongyuan_Hunan_Cuisine,_Beijing_(20240131171227).jpg) — N509FZ — [CC BY-SA 4.0](https://creativecommons.org/licenses/by-sa/4.0) | [original](https://upload.wikimedia.org/wikipedia/commons/2/23/Lajiao_Chaorou_at_Xiangzhongyuan_Hunan_Cuisine%2C_Beijing_%2820240131171227%29.jpg) | 4032×2688 | 3:2，盘面可占 65–75%；裁切时避开餐厅标识。 |
 | 4 | `yunnan-mushroom-chicken-stew` | **No accurate candidate found** | — | — | **图片 blocker**。搜索只得到无关文献或普通 mushroom chicken；不得以视觉相似图片冒充。 |
 | 5 | `northwest-cumin-lamb` | [Cumin Lamb (5179533335).jpg](https://commons.wikimedia.org/wiki/File:Cumin_Lamb_(5179533335).jpg) — Neil Conway — [CC BY 2.0](https://creativecommons.org/licenses/by/2.0) | [original](https://upload.wikimedia.org/wikipedia/commons/b/b1/Cumin_Lamb_%285179533335%29.jpg) | 5298×3333 | 宽横图；菜盘置中偏一侧、另一侧可留标题空间。须确认不是羊排或羊肉串。 |
@@ -67,7 +67,7 @@
 | 11 | `thai-green-papaya-salad` | [Som Tum ส้มตำไทย — mortar pounded green papaya salad with peanuts.jpg](https://commons.wikimedia.org/wiki/File:Som_Tum_%E0%B8%AA%E0%B9%89%E0%B8%A1%E0%B8%95%E0%B8%B3%E0%B9%84%E0%B8%97%E0%B8%A2-_mortar_pounded_green_papaya_salad_with_palm_sugar%2C_lime_juice%2C_bird_eye_chile%2C_peanuts.jpg) — T.Tseng — [CC BY 2.0](https://creativecommons.org/licenses/by/2.0/) | [original](https://upload.wikimedia.org/wikipedia/commons/0/0e/Som_Tum_%E0%B8%AA%E0%B9%89%E0%B8%A1%E0%B8%95%E0%B8%B3%E0%B9%84%E0%B8%97%E0%B8%A2-_mortar_pounded_green_papaya_salad_with_palm_sugar%2C_lime_juice%2C_bird_eye_chile%2C_peanuts.jpg) | 3264×2448 | 逐图复核可见青木瓜丝、番茄、胡萝卜与花生；替换了 sampling QA 发现含腰果、与配料及过敏原声明冲突的旧 Hero。裁切后无人物、品牌或餐厅标识。 |
 | 12 | `filipino-chicken-adobo-home` | [Chicken adobo.jpg](https://commons.wikimedia.org/wiki/File:Chicken_adobo.jpg) — dbgg1979 — [CC BY 2.0](https://creativecommons.org/licenses/by/2.0) | [original](https://upload.wikimedia.org/wikipedia/commons/3/38/Chicken_adobo.jpg) | 3072×2304 | 突出酱色鸡肉，避免裁入当前配方不存在的土豆或椰奶等变体配料。 |
 | 13 | `indonesian-chili-eggplant` | [Terong Balado 101319.jpg](https://commons.wikimedia.org/wiki/File:Terong_Balado_101319.jpg) — Abdul Hanif Arromy — [CC BY 4.0](https://creativecommons.org/licenses/by/4.0) | [original](https://upload.wikimedia.org/wikipedia/commons/7/7f/Terong_Balado_101319.jpg) | 3264×2448 | 4:3；茄子与红色 balado 酱应占主体。这是 identity 匹配度较高的候选。 |
-| 14 | `malaysian-turmeric-chicken` | [Ayam Goreng Kunyit.jpg](https://commons.wikimedia.org/wiki/File:Ayam_Goreng_Kunyit.jpg) — Dr.Francostein1975 — [CC BY-SA 4.0](https://creativecommons.org/licenses/by-sa/4.0) | [original](https://upload.wikimedia.org/wikipedia/commons/c/c4/Ayam_Goreng_Kunyit.jpg) | 1000×750 | 只勉强适合卡片或中等尺寸图片，不宜作为超宽 Hero。确认图片不是与少油 stir-fry 明显不同的重油炸版本。 |
+| 14 | `malaysian-turmeric-chicken` | [Ayam goreng kunyit 20231005 183031.jpg](https://commons.wikimedia.org/wiki/File:Ayam_goreng_kunyit_20231005_183031.jpg) - Wiki Farazi - [CC0](https://creativecommons.org/publicdomain/zero/1.0/) | [original](https://upload.wikimedia.org/wikipedia/commons/c/cc/Ayam_goreng_kunyit_20231005_183031.jpg) | 3133×1762 | 文件说明明确为雪兰莪的一盘 ayam goreng kunyit；Recipe 已对齐鸡肉、花椰菜、胡萝卜、洋葱与鲜辣椒，同时明确是家庭少油改编。 |
 | 15 | `singapore-chicken-rice-home` | [Hainanese chicken rice in Singapore.jpg](https://commons.wikimedia.org/wiki/File:Hainanese_chicken_rice_in_Singapore.jpg) — Pauloleong2002 — [CC BY-SA 4.0](https://creativecommons.org/licenses/by-sa/4.0) | [original](https://upload.wikimedia.org/wikipedia/commons/9/94/Hainanese_chicken_rice_in_Singapore.jpg) | 2560×1536 | 5:3 横图适合 Hero，保留鸡与饭双主体。图片会强化传统预期，页面须明显标出同锅家庭改编。 |
 | 16 | `indian-masoor-dal` | [Masoor dal.JPG](https://commons.wikimedia.org/wiki/File:Masoor_dal.JPG) — Rydia~commonswiki — [CC BY-SA 2.5](https://creativecommons.org/licenses/by-sa/2.5) | [original](https://upload.wikimedia.org/wikipedia/commons/3/38/Masoor_dal.JPG) | 768×576 | identity 匹配但分辨率不足大 Hero，只适合较小卡片；建议继续寻找至少 2000 px 的候选。 |
 | 17 | `indian-chana-masala-home` | [Chana Masala - Mohammed - Spice Of Life 2024-05-27.jpg](https://commons.wikimedia.org/wiki/File:Chana_Masala_-_Mohammed_-_Spice_Of_Life_2024-05-27.jpg) — Andy Li — [CC0](https://creativecommons.org/publicdomain/zero/1.0/deed.en) | [original](https://upload.wikimedia.org/wikipedia/commons/7/72/Chana_Masala_-_Mohammed_-_Spice_Of_Life_2024-05-27.jpg) | 4032×3024 | 裁成锅或碗主体，去除餐厅环境和其他盘碟。CC0 仍保留 provenance。 |
@@ -76,7 +76,7 @@
 | 20 | `spanish-chickpea-spinach` | Flickr, [espinacas con garbanzos](https://www.flickr.com/photos/43175928@N05/4823770560) — Speculum Mundi — [CC BY 2.0](https://creativecommons.org/licenses/by/2.0/) | [available original candidate](https://live.staticflickr.com/4114/4823770560_0f12efcc6b_b.jpg) | 1024×681 | Commons 没有准确候选。该图菜名匹配，但只能用于卡片或中等尺寸；接入时必须回 Flickr 页面重新确认许可状态。 |
 | 21 | `french-lentil-soup` | [French lentil soup (42460826544).jpg](https://commons.wikimedia.org/wiki/File:French_lentil_soup_(42460826544).jpg) — Joey Doll — [CC BY 2.0](https://creativecommons.org/licenses/by/2.0) | [original](https://upload.wikimedia.org/wikipedia/commons/e/e3/French_lentil_soup_%2842460826544%29.jpg) | 4752×3168 | 3:2；突出汤碗和扁豆质地，裁掉无关餐具。需确认图片配料不暗示 Puy AOP。 |
 | 22 | `greek-lemon-oregano-chicken` | [Greek chicken souvlaki merida.jpg](https://commons.wikimedia.org/wiki/File:Greek_chicken_souvlaki_merida.jpg) — Leeturtle — [CC BY-SA 4.0](https://creativecommons.org/licenses/by-sa/4.0/) | [original](https://upload.wikimedia.org/wikipedia/commons/e/e3/Greek_chicken_souvlaki_merida.jpg) | 4640×3472 | 当前料理已收敛为不穿签的烤纹锅鸡腿肉块；Hero 主体同样是已脱签的烤鸡肉块，配菜不作为配方承诺。 |
-| 23 | `mexican-black-bean-tacos` | [Black bean corn tacos at Down The Rabbit Hole 2018.jpg](https://commons.wikimedia.org/wiki/File:Black_bean_corn_tacos_at_Down_The_Rabbit_Hole_2018.jpg) — FakirNL — [CC BY-SA 4.0](https://creativecommons.org/licenses/by-sa/4.0) | [original](https://upload.wikimedia.org/wikipedia/commons/6/6b/Black_bean_corn_tacos_at_Down_The_Rabbit_Hole_2018.jpg) | 3264×1836 | 宽横图适合 Hero；确认配料和 tortilla 类型与 Recipe 一致，并避免品牌/餐厅标识。 |
+| 23 | `mexican-black-bean-tacos` | [Vegetables and Black Bean Tacos (7212559656).jpg](https://commons.wikimedia.org/wiki/File:Vegetables_and_Black_Bean_Tacos_(7212559656).jpg) - Jennifer - [CC BY 2.0](https://creativecommons.org/licenses/by/2.0/) | [original](https://upload.wikimedia.org/wikipedia/commons/4/45/Vegetables_and_Black_Bean_Tacos_(7212559656).jpg) | 1800×1200 | Commons metadata categories identify beans, mushrooms, avocado, Brassica and a vegan taco; the Recipe uses the same visible ingredient families. The pale curved pieces are treated as sliced mushrooms on that provenance basis, not as nuts. No visible brand or person. |
 | 24 | `huevos-rancheros-home` | [Huevos rancheros.jpg](https://commons.wikimedia.org/wiki/File:Huevos_rancheros.jpg) — 1000b — [CC BY-SA 4.0](https://creativecommons.org/licenses/by-sa/4.0/) | [original](https://upload.wikimedia.org/wikipedia/commons/3/3a/Huevos_rancheros.jpg) | 3024×3024 | 横裁后仍清楚保留两枚煎蛋、玉米饼与红色 salsa；豆类包含在家庭版酱汁中但不作为可见构图承诺。 |
 
 ## Publication Decisions And Residual Risks
@@ -85,7 +85,7 @@
 
 以下不是发布 blocker，而是后续编辑复核时应保留的边界：
 
-- `cantonese-mushroom-steamed-chicken` 的 Hero 诚实展示鸡肉与菌菇，但照片题名不能证明蒸制；蒸制方法只由 Recipe 来源与步骤支持。
+- `cantonese-mushroom-steamed-chicken` 的 Hero 文件说明明确记录香港冬菇滑鸡饭；裁切后仍按“上桌示意”披露，蒸制方法由 Recipe 来源与步骤支持。
 - `greek-lemon-oregano-chicken` 的内容与 Hero 均收敛为不穿签的烤纹锅鸡肉块；仍明确为受常见希腊风味组合启发的家庭版本。
 - `singapore-chicken-rice-home`、`korean-tofu-stew-home`、`indian-chana-masala-home`、`mexican-black-bean-tacos` 与 `huevos-rancheros-home` 的名称持续保留 home/home-style 边界。
 - 所有 BY/SA 素材必须持续展示 attribution、许可链接与裁切说明；文件页权利变化会触发重新审核。
